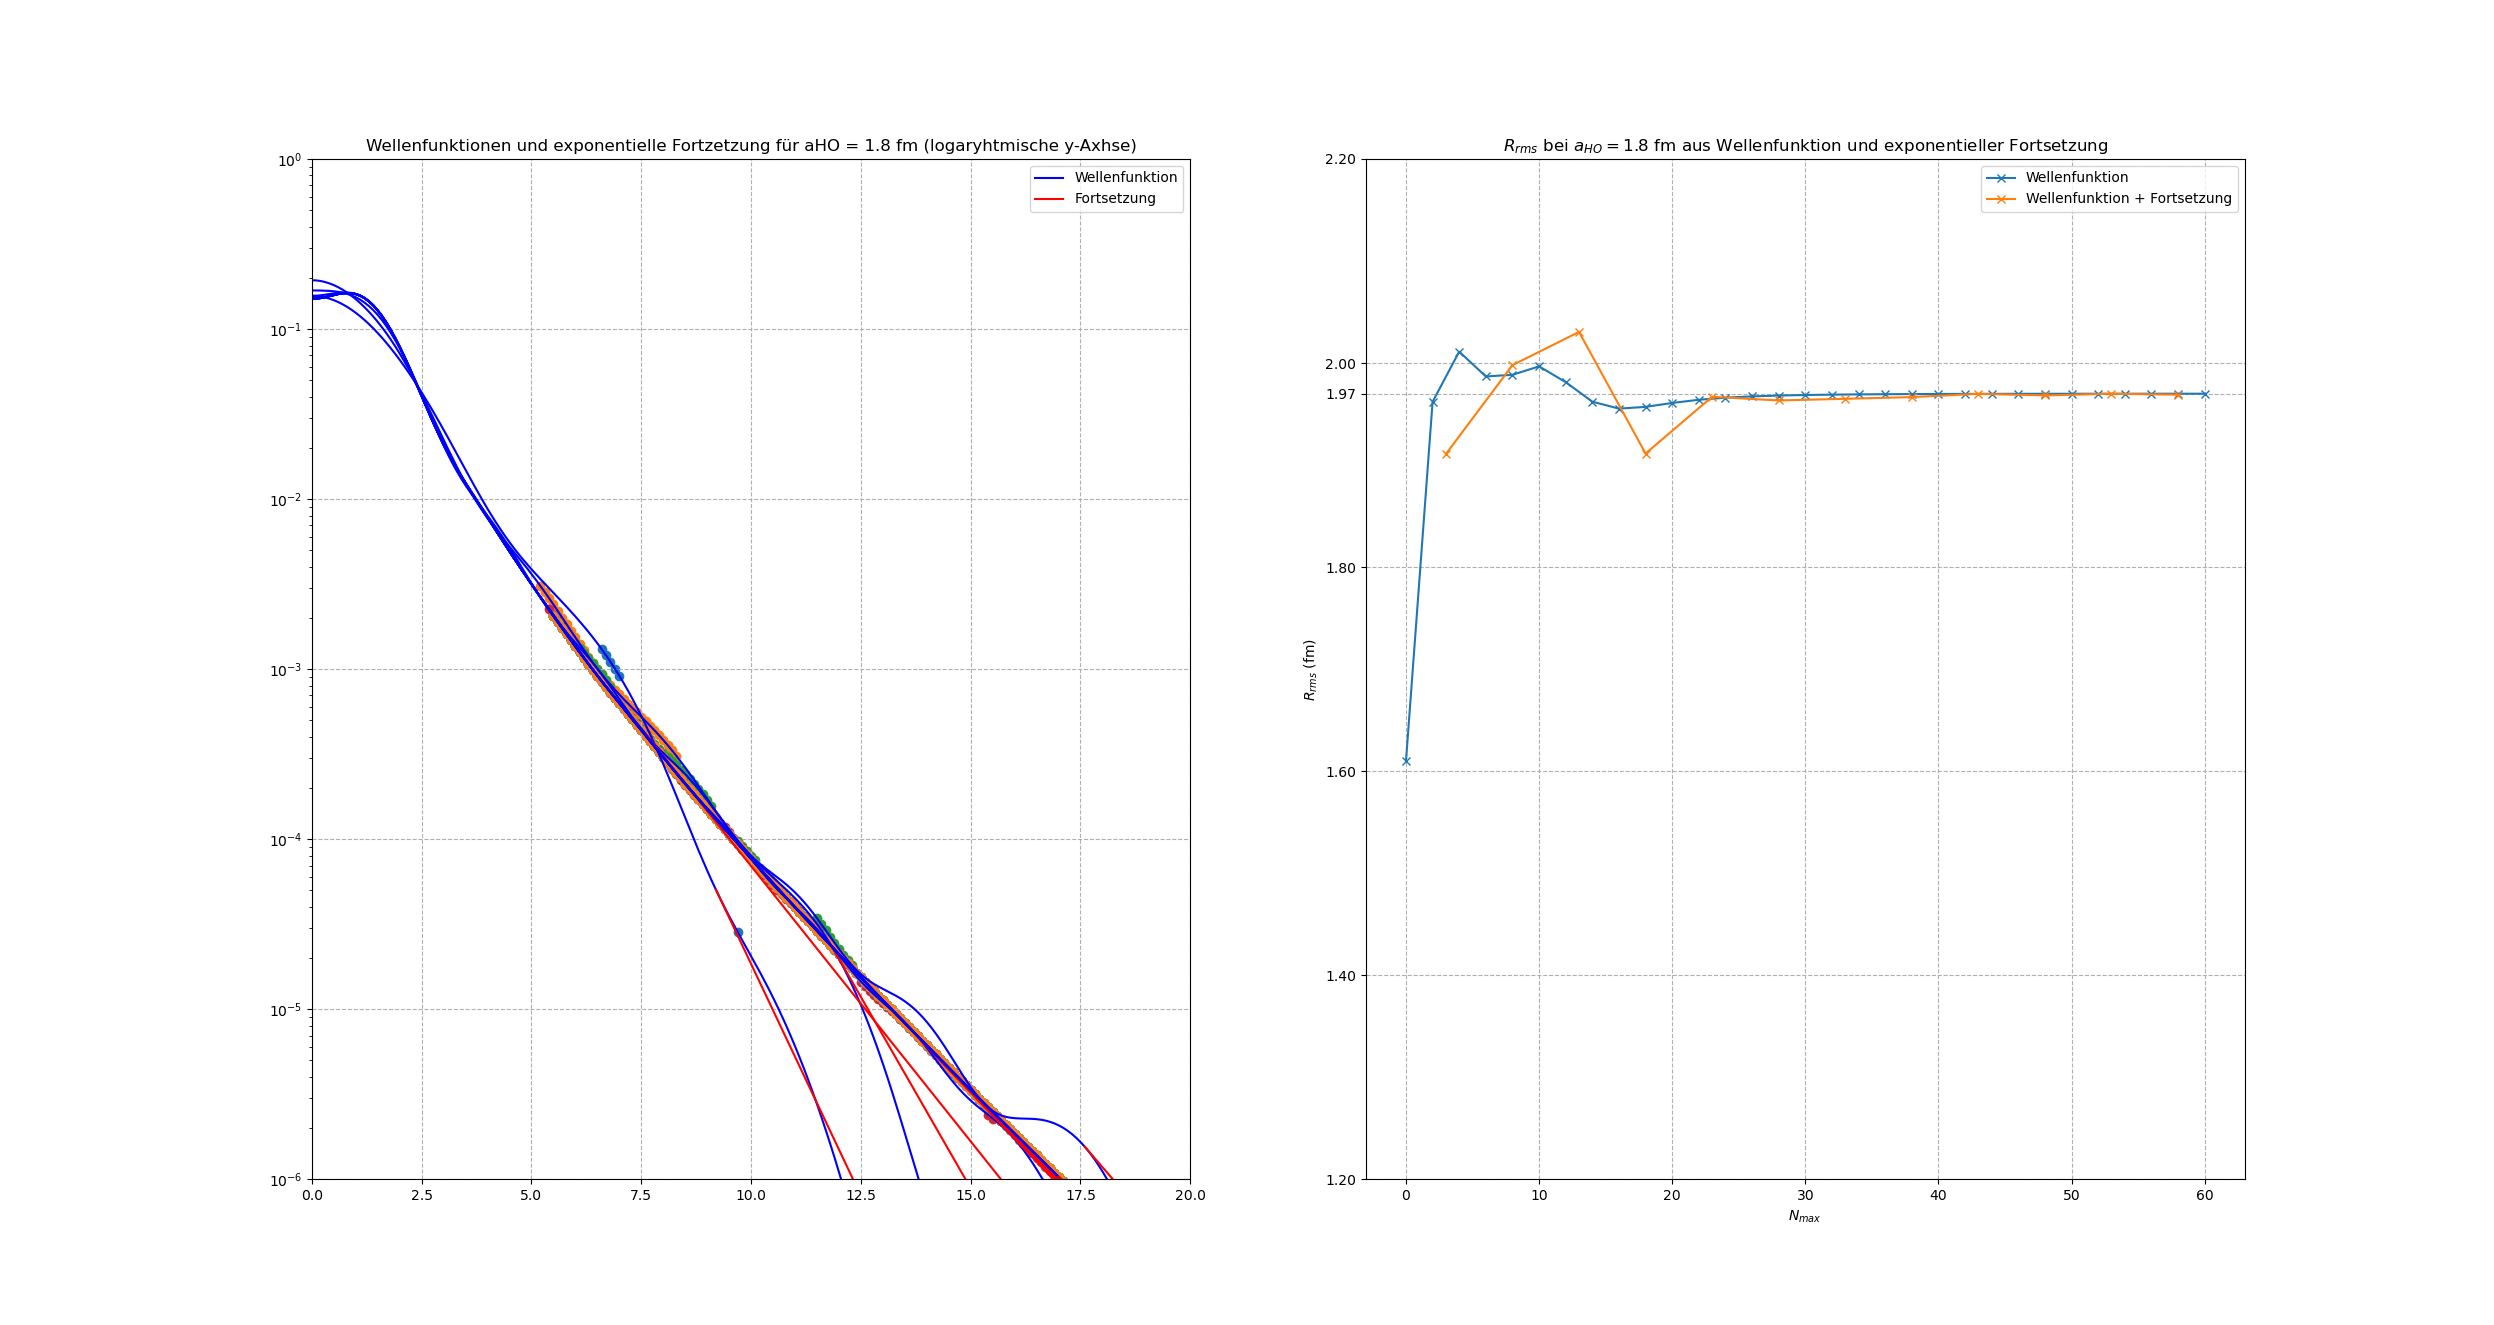
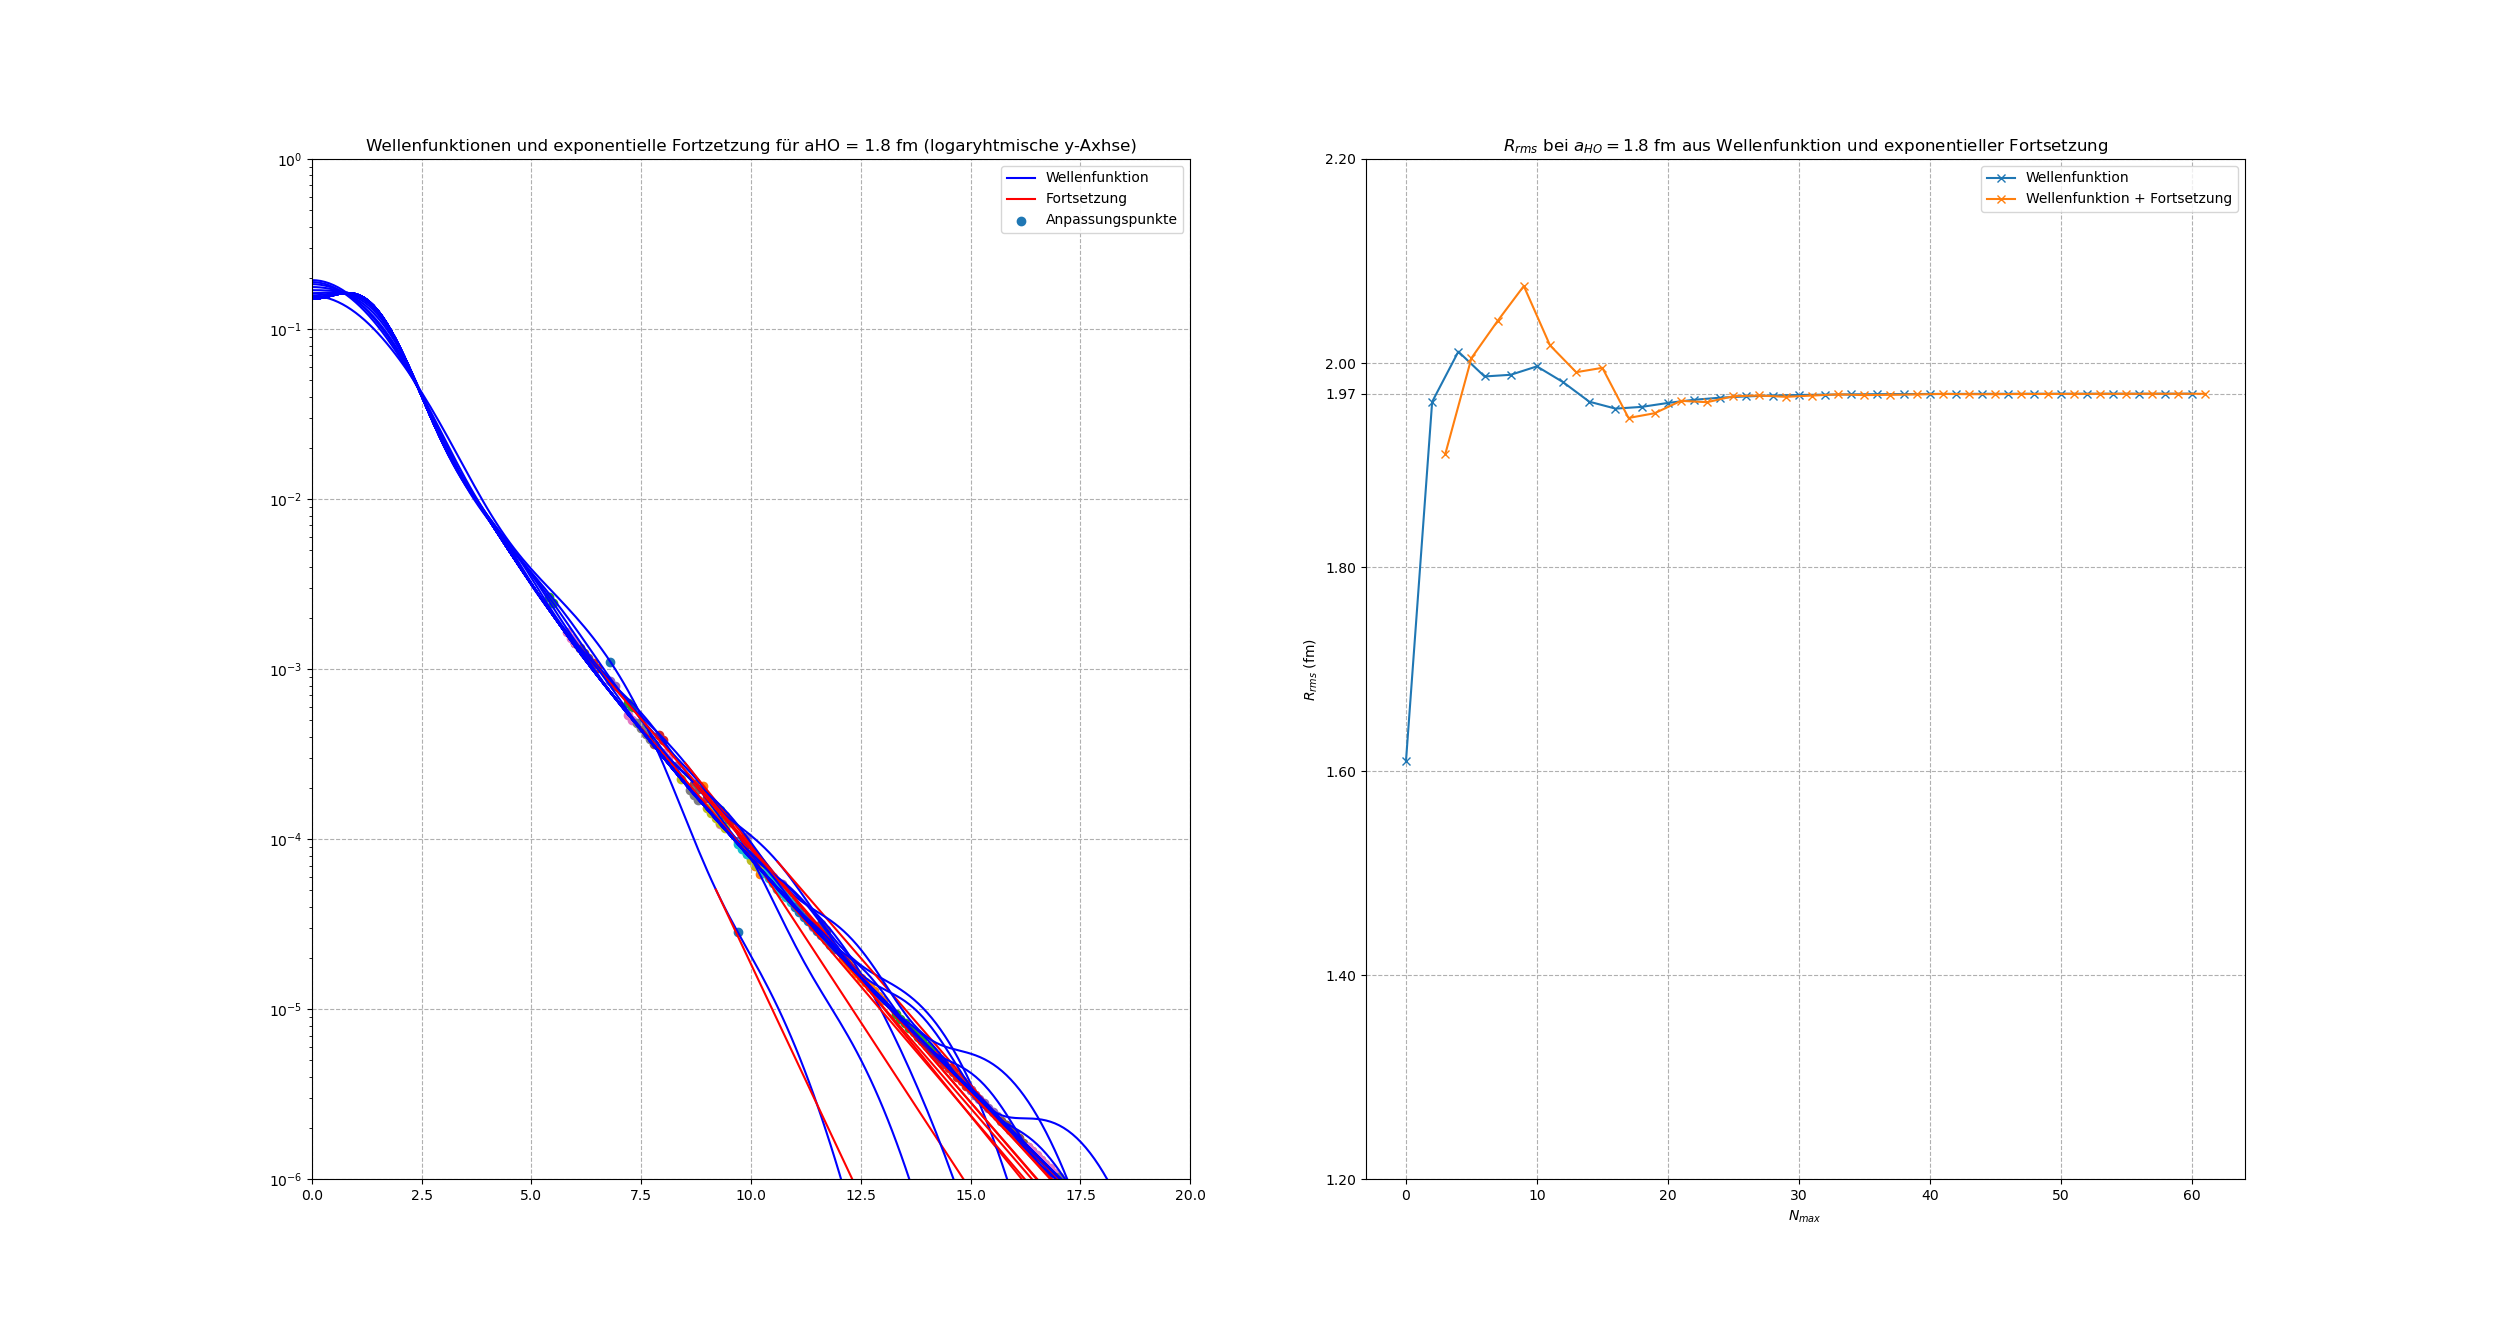
new plots

diff --git a/code/rrms_position_probability_density_continuation_overlapNmax-1.py b/code/rrms_position_probability_density_continuation_overlapNmax-1.py
@@ -47,7 +47,7 @@ def find_cont_par_cut(NNmax, aHO):
     diff_log_density = np.abs(log_density[1, start_linear_index:] - log_density[2, start_linear_index:])
     
     # Indiexes are at the points, where the difference in log densities is smaller 0.1
-    distance = 0.05
+    distance = 0.01
     fit_points_indices = np.where(diff_log_density < distance)[0] + start_linear_index
     
     # condition to have two differen points in order to fit a straight
@@ -62,10 +62,12 @@ def find_cont_par_cut(NNmax, aHO):
     
     # use only the fit_point_num number of points in the middle of the list
     fit_point_num = 10
+    two_third_index = int(fit_points_indices.size * 2 / 3)
     if fit_points_indices.size > fit_point_num:
-        middle_index = int(fit_points_indices.size / 2)
-        three_quater_index = middle_index + int(fit_points_indices.size / 4)
-        fit_points_indices = fit_points_indices[three_quater_index - int(fit_point_num / 2):three_quater_index + int(fit_point_num / 2)]
+        # middle_index = int(fit_points_indices.size / 2)
+        # three_quater_index = middle_index + int(fit_points_indices.size / 4)
+        fit_points_indices = fit_points_indices[two_third_index - int(fit_point_num / 2):two_third_index + int(fit_point_num / 2)]
+
     
     # fit points from fit_pint_indexes
     r_fit = r[fit_points_indices]
@@ -157,7 +159,7 @@ def test_plots(r, NNmax, dNmax):
         plt.title("Wellenfunktionen und exponentielle Fortzetzung für aHO = " + str(aHO_lst[j]) + " fm (logaryhtmische y-Axhse)") 
         plt.ylim(10**(-6), 1)
         plt.xlim(0, 20)
-        plt.legend(["Wellenfunktion", "Fortsetzung"])
+        plt.legend(["Wellenfunktion", "Fortsetzung", "Anpassungspunkte"])
         
         rmax, dr = max(r), r[1]-r[0]
         rrms_full_wave = rrms_integral_trapz(60, aHO_lst[j], 2, rmax, dr)
